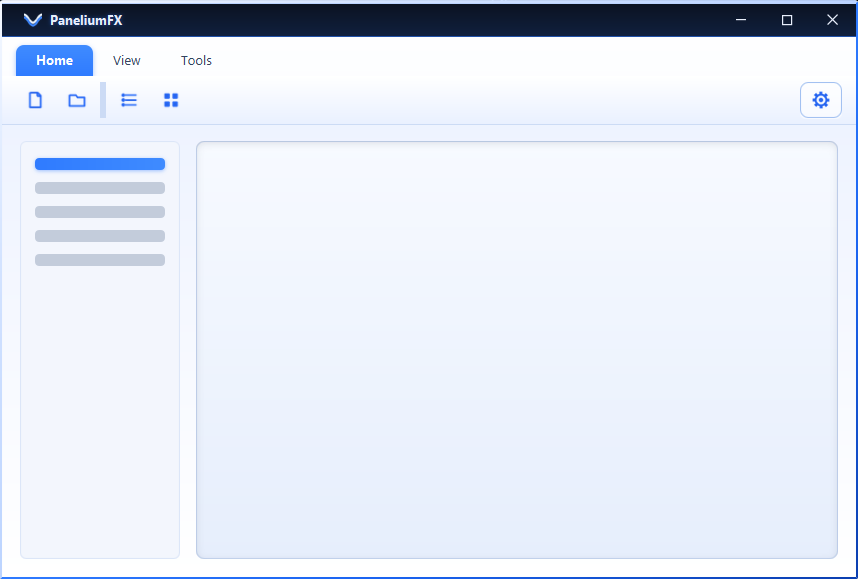
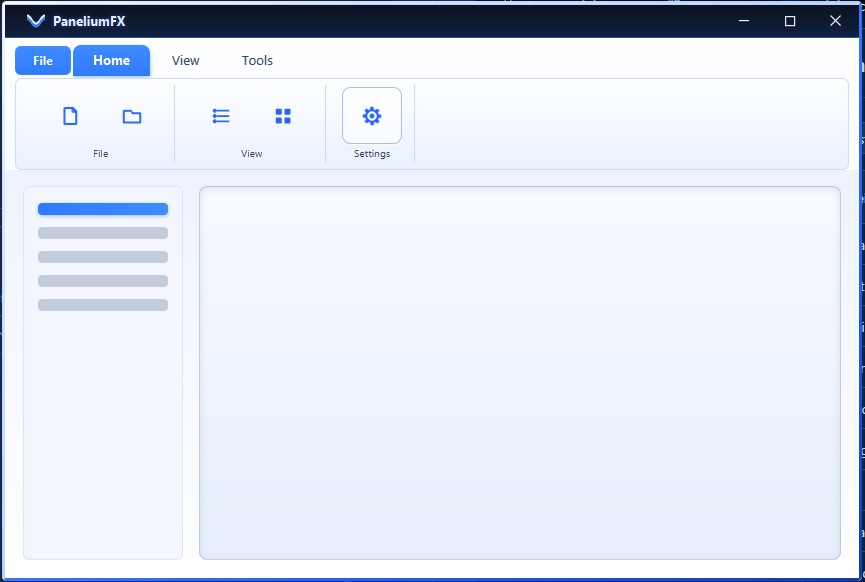
Ensure `menu-pane-group-strip` background spans full ribbon width
- Update `FXMenuPane` to enforce a minimum width for the group strip, ensuring its background fills the entire ribbon width even when groups are narrower.
- Add tests, documentation (EN + DE), and changelog updates.

diff --git a/src/main/kotlin/org/pcsoft/framework/panelium/menupane/FXMenuPaneView.kt b/src/main/kotlin/org/pcsoft/framework/panelium/menupane/FXMenuPaneView.kt
@@ -16,6 +16,7 @@ import de.saxsys.mvvmfx.FxmlView
 import de.saxsys.mvvmfx.InjectViewModel
 import javafx.animation.FadeTransition
 import javafx.beans.InvalidationListener
+import javafx.beans.binding.Bindings
 import javafx.collections.ListChangeListener
 import javafx.css.PseudoClass
 import javafx.event.EventHandler
@@ -54,7 +55,10 @@ import kotlin.math.roundToInt
  * is emptied while the backstage is open and restored when it closes. The tab-strip row and the
  * group strip share the `bandColumn` VBox; the backstage layer is anchored to its bottom edge. The
  * group strip has a fixed height (`menu-pane-group-strip` in `menu-pane.css`), so the band keeps the
- * same height regardless of which tab's groups it currently shows.
+ * same height regardless of which tab's groups it currently shows. The `groupStrip` HBox is held at
+ * least as wide as its scroll-pane viewport, so the `menu-pane-group-strip` background spans the
+ * full ribbon width even when the groups themselves are narrower; on real overflow it still grows
+ * past the viewport and scrolls.
  *
  * The ribbon collapses to just the tab-strip row when [FXMenuPaneViewModel.collapsed] is set: the
  * group strip is hidden and unmanaged, so the band shrinks. A double-click on the active tab button
@@ -252,6 +256,17 @@ internal class FXMenuPaneView : FxmlView<FXMenuPaneViewModel>, Initializable {
         tabStripScrollPane.addEventFilter(ScrollEvent.SCROLL, ::onScroll)
         groupStripScrollPane.addEventFilter(ScrollEvent.SCROLL, ::onGroupStripScroll)
         groupOverflowCoordinator = MenuGroupStripOverflowCoordinator(groupStripScrollPane, groupStrip)
+
+        // Keep the group strip at least as wide as its viewport so the `menu-pane-group-strip`
+        // background fills the full ribbon width instead of ending where the groups end. A real
+        // overflow still pushes the strip past its viewport (prefWidth wins over this minWidth), so
+        // the overflow coordinator and the last-resort horizontal scroll keep working.
+        groupStrip.minWidthProperty().bind(
+            Bindings.createDoubleBinding(
+                { groupStripScrollPane.viewportBounds.width.coerceAtLeast(0.0) },
+                groupStripScrollPane.viewportBoundsProperty(),
+            ),
+        )
 
         ribbonContextMenu = RibbonContextMenu(viewModel.collapsed, ::toggleCollapsed)
         tabStripRow.addEventHandler(ContextMenuEvent.CONTEXT_MENU_REQUESTED, ribbonContextMenuRequestFilter)

diff --git a/src/test/kotlin/org/pcsoft/framework/panelium/menupane/FXMenuPaneStylingTest.kt b/src/test/kotlin/org/pcsoft/framework/panelium/menupane/FXMenuPaneStylingTest.kt
@@ -16,6 +16,7 @@ import javafx.css.CssMetaData
 import javafx.css.Styleable
 import javafx.scene.Node
 import javafx.scene.control.Label
+import javafx.scene.control.ScrollPane
 import javafx.scene.control.ToggleButton
 import javafx.scene.layout.HBox
 import javafx.scene.paint.Color
@@ -171,6 +172,37 @@ class FXMenuPaneStylingTest : AbstractMenuPaneUiTest() {
 
         val header = onFx { menuPane.lookup(".menu-pane-context-group-header") as Label }
         assertEquals("", onFx { header.style })
+    }
+
+    /**
+     * Use case: the group strip's painted band (`menu-pane-group-strip`) must cover the whole ribbon
+     * width, not only the combined width of its groups, so a scene stylesheet colouring that class
+     * paints an edge-to-edge band. The `groupStrip` HBox is therefore kept at least as wide as its
+     * scroll-pane viewport when the groups are narrower than the ribbon.
+     */
+    @Test
+    fun `the group strip spans the full ribbon width when the groups are narrow`() {
+        val menuPane = showMenuPaneStage()
+        onFx {
+            val home = FXMenuTab("home", "Home")
+            val box = FXMenuGroupLargeBox(ToggleButton("A"))
+            home.groups.add(FXMenuGroup(box, anchor = box).apply { title = "Group" })
+            menuPane.tabs.add(home)
+            menuPane.activeTab = home
+            menuPane.applyCss()
+            menuPane.layout()
+        }
+        pumpFx()
+        onFx { menuPane.layout() }
+        pumpFx()
+
+        val groupStrip = onFx { menuPane.lookup(".menu-pane-group-strip") as HBox }
+        val scrollPane = onFx { menuPane.lookup(".menu-pane-group-strip-scroll-pane") as ScrollPane }
+        val viewportWidth = onFx { scrollPane.viewportBounds.width }
+        val stripWidth = onFx { groupStrip.width }
+
+        assertTrue(viewportWidth > 0.0, "group strip viewport was not laid out: $viewportWidth")
+        assertEquals(viewportWidth, stripWidth, 0.5, "group strip should fill the viewport width")
     }
 
     /**

diff --git a/CHANGELOG.md b/CHANGELOG.md
@@ -38,6 +38,9 @@ excluded.
 - `FXMenuPane` group strip now keeps a constant height across tab switches; the ribbon band no
   longer jumps when the active tab's groups differ in size. The fixed height can be overridden from
   a scene stylesheet via `-fx-pref-height` / `-fx-min-height` on `.menu-pane-group-strip`.
+- `FXMenuPane` group strip background now spans the full ribbon width instead of ending where the
+  groups end, so a scene stylesheet colouring `.menu-pane-group-strip` paints an edge-to-edge band.
+  Box overflow folding and the last-resort horizontal scroll are unaffected.
 - `FXMenuPane` file-tab backstage docked in a `MenuChromePane` now closes on Escape and on a click
   outside its content again, not only by re-clicking the File button.
 - `FXMenuPane` group strip is restored when the file-tab backstage closes (it stayed empty after the

diff --git a/docs/docs/menu-pane/customize-styles.de.md b/docs/docs/menu-pane/customize-styles.de.md
@@ -65,6 +65,10 @@ wenn die Gruppen des aktiven Tabs unterschiedlich groß sind. Über `-fx-pref-he
 }
 ```
 
+Die `-fx-min-width` wird von der Menüband-Breite bestimmt, sodass das `menu-pane-group-strip`-Band
+immer die volle Menüband-Breite ausfüllt, auch wenn die Gruppen schmaler sind; ein `-fx-min-width`
+aus einem Stylesheet bleibt wirkungslos.
+
 ## Pseudoklassen
 
 | Pseudoklasse | Knoten | Aktiv, solange |

diff --git a/docs/docs/menu-pane/customize-styles.md b/docs/docs/menu-pane/customize-styles.md
@@ -63,6 +63,10 @@ the active tab's groups differ in size. Override it with `-fx-pref-height` / `-f
 }
 ```
 
+Its `-fx-min-width` is driven by the ribbon width, so the `menu-pane-group-strip` band always fills
+the full ribbon width even when the groups are narrower; setting `-fx-min-width` from a stylesheet
+has no effect.
+
 ## Pseudo-classes
 
 | Pseudo-class | Node | Active while |
